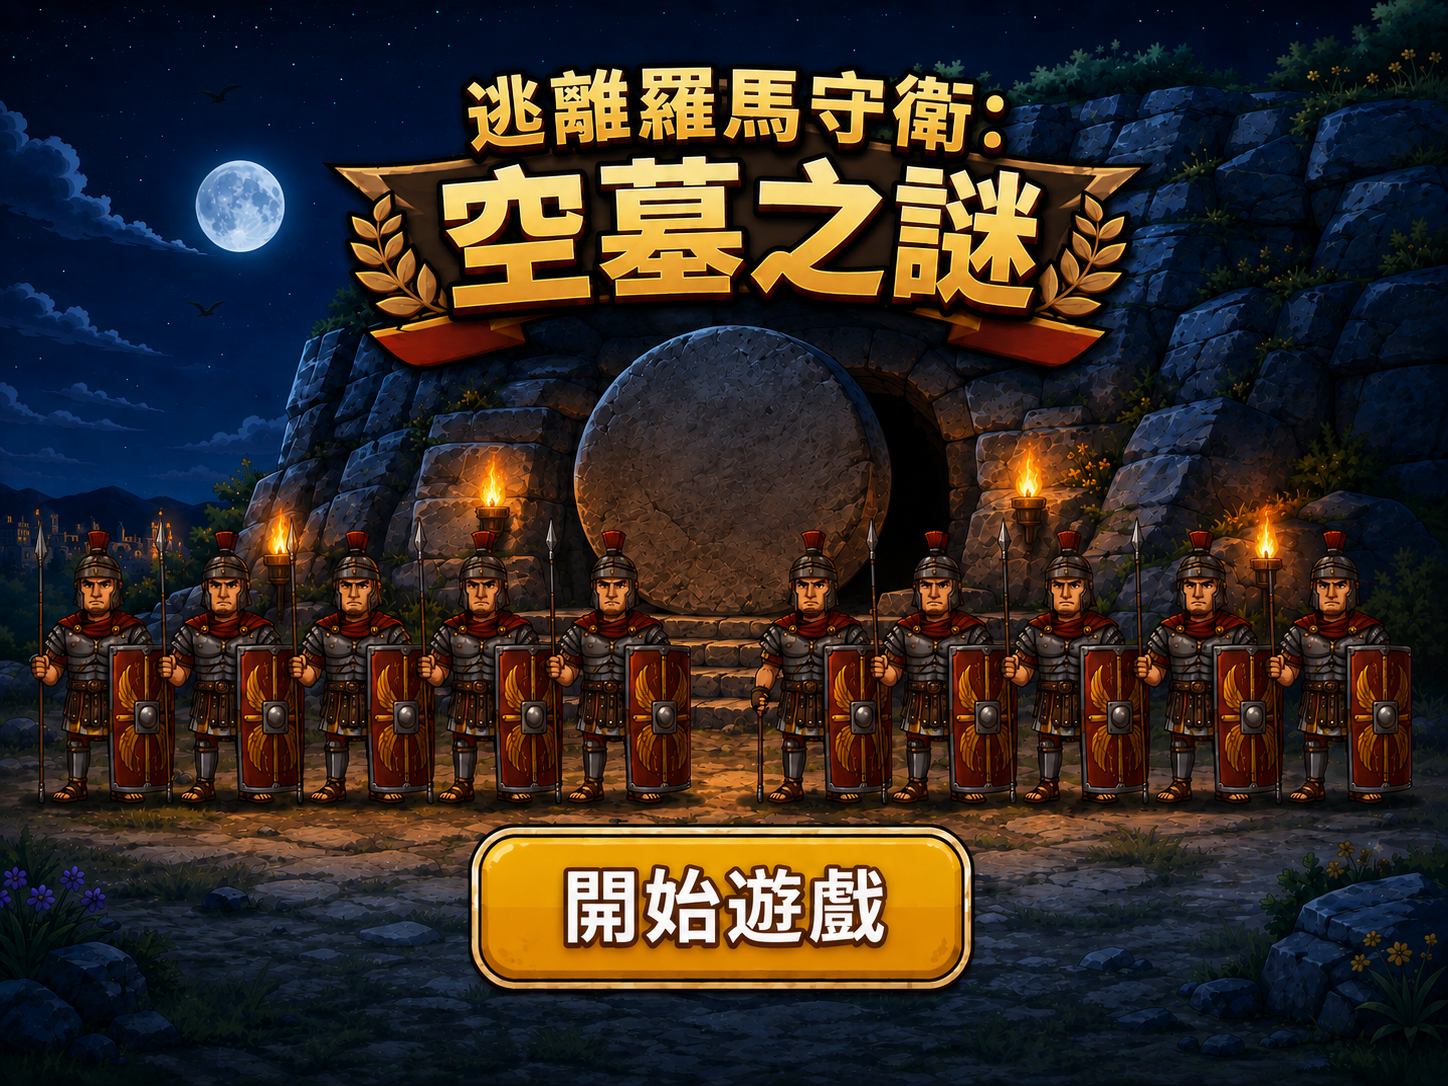
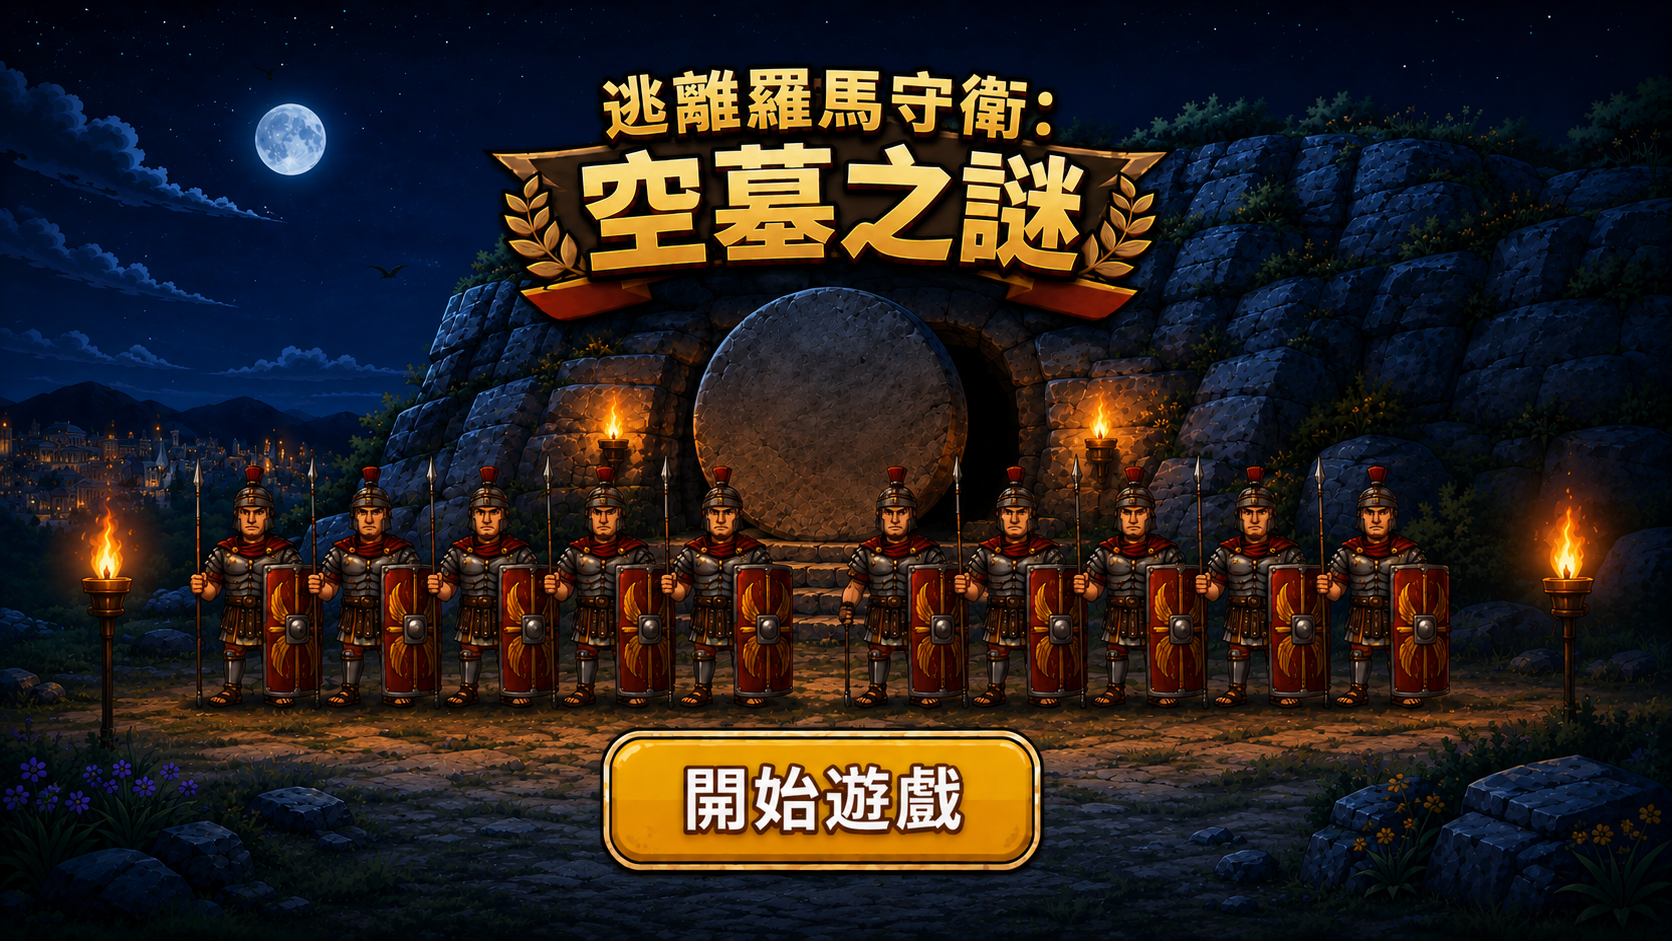
replace title cover image

diff --git a/src/styles.css b/src/styles.css
@@ -10,7 +10,7 @@
   --accent-strong: #f0c766;
   --red: #a43f32;
   --green: #4c8f7a;
-  --title-art-max-width: 1093px;
+  --title-art-max-width: 1672px;
 }
 
 * {
@@ -101,8 +101,8 @@ button:focus-visible {
 
 .title-artboard {
   position: relative;
-  width: min(100vw, calc(var(--vh, 1vh) * 133.333333), var(--title-art-max-width));
-  aspect-ratio: 1448 / 1086;
+  width: min(100vw, calc(var(--vh, 1vh) * 177.683315), var(--title-art-max-width));
+  aspect-ratio: 1672 / 941;
   pointer-events: none;
 }
 